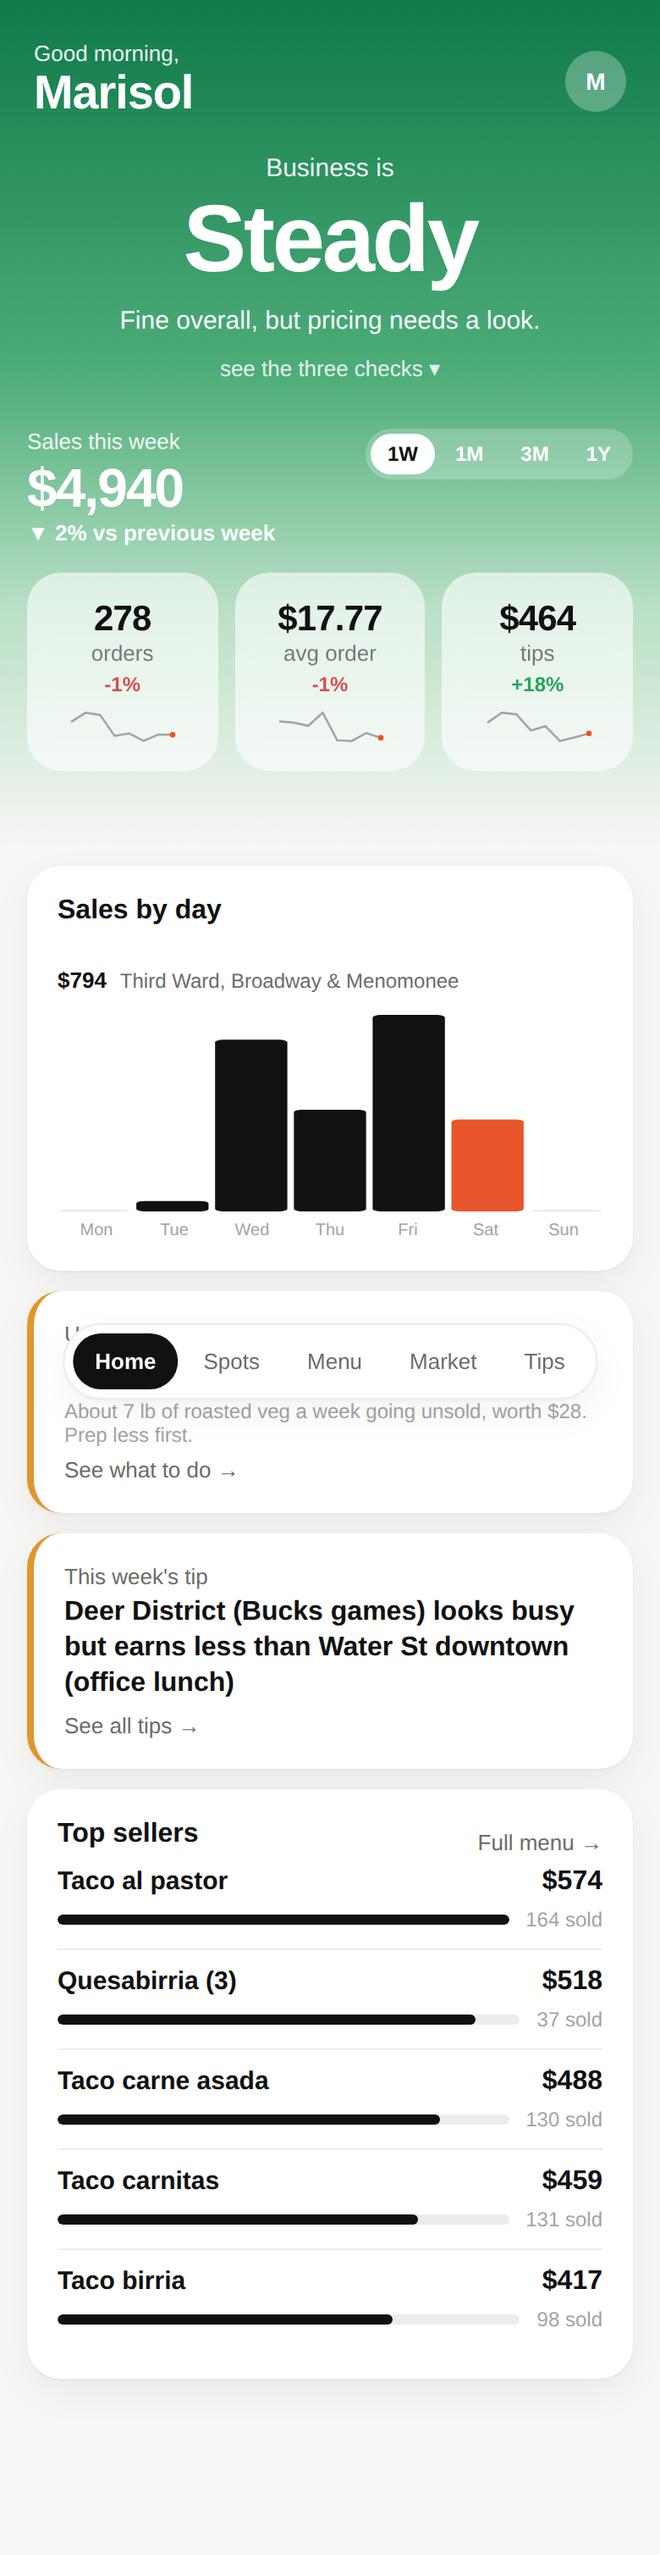
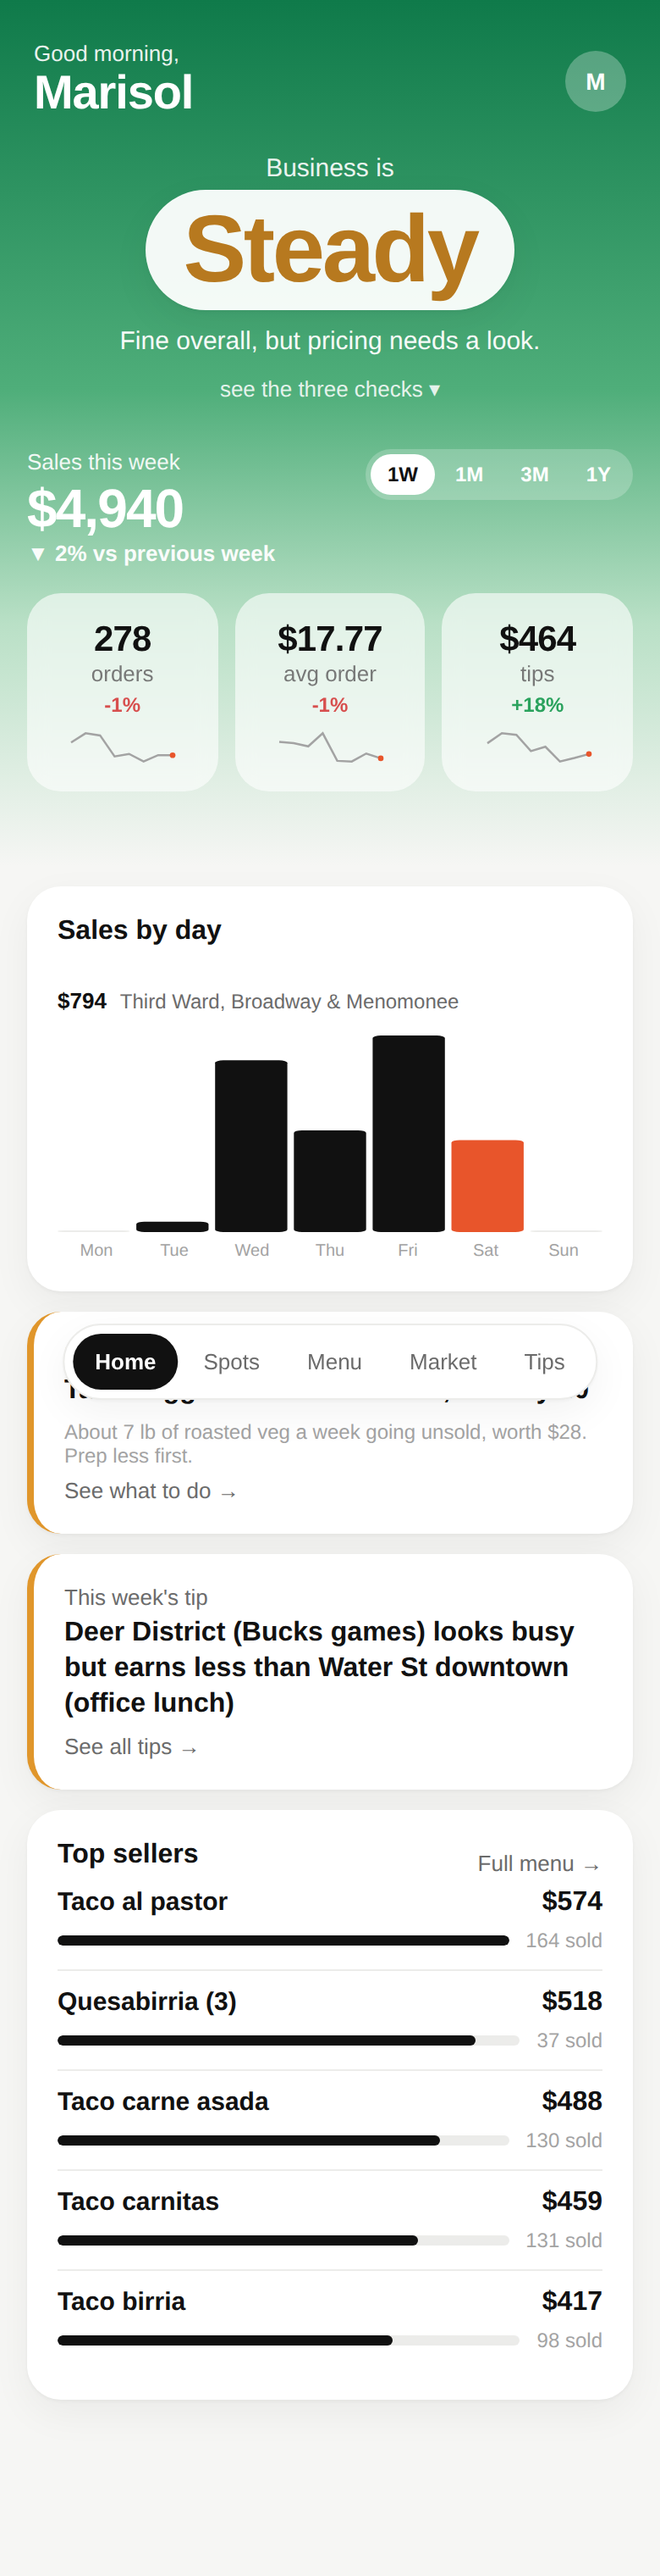
Colour the business rating word by state
Green for Good, amber for Steady, red for Needs attention, on a white
chip so it reads on any header colour.

Claude-Session: https://claude.ai/code/session_011kULvXi1EhLGoQfkcWDNEp

diff --git a/food-truck-app/src/app.css b/food-truck-app/src/app.css
@@ -210,3 +210,9 @@ button.tile { font: inherit; border: 0; cursor: pointer; text-align: center; }
 .tile .spark polyline { stroke: var(--ink-3); }
 .grad .tile.on { background: #fff; box-shadow: 0 0 0 2px var(--ink); }
 .linkish { border: 0; background: transparent; font: inherit; font-size: 13px; color: var(--ink-2); cursor: pointer; padding: 0; }
+
+/* rating word coloured by state, on a white chip so it reads on any header */
+.rating-big { display: inline-block; padding: 6px 22px; border-radius: 999px; background: rgba(255, 255, 255, 0.94); box-shadow: var(--shadow); }
+.rating-big.good { color: #0f7a4a; }
+.rating-big.info { color: #b7791f; }
+.rating-big.warn { color: #c0392b; }

diff --git a/food-truck-app/src/screens/Home.tsx b/food-truck-app/src/screens/Home.tsx
@@ -36,7 +36,7 @@ export default function Home({ range, setRange }: { range: RangeKey; setRange: (
 
         <button className={`rating-hero ${h.tone}`} onClick={() => setWhy(!why)} aria-expanded={why}>
           <div className="label">Business is</div>
-          <div className="rating-big">{h.rating}</div>
+          <div className={`rating-big ${h.tone}`}>{h.rating}</div>
           <div className="rating-sum">{h.summary}</div>
           <div className="rating-why">{why ? 'hide the checks ▴' : 'see the three checks ▾'}</div>
         </button>
